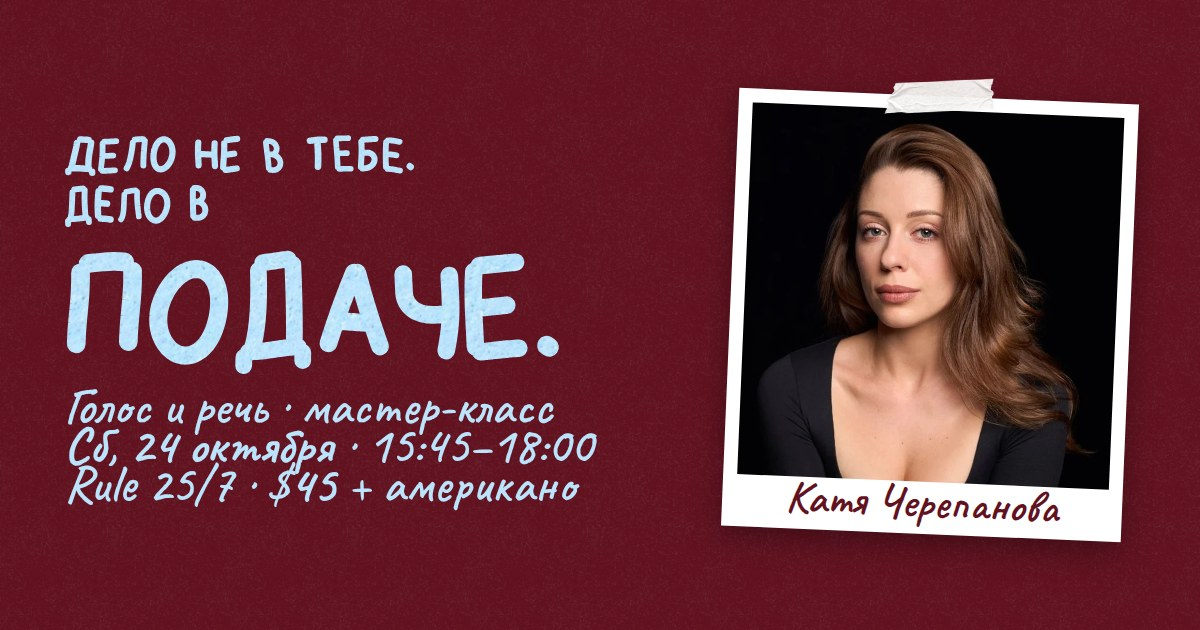
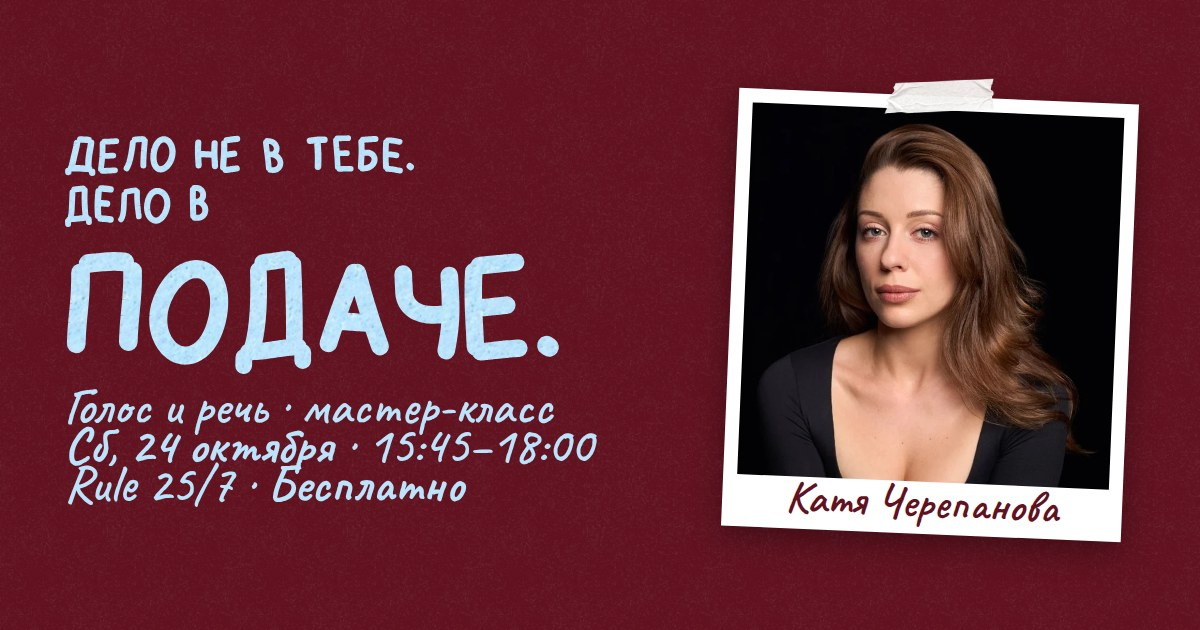
Link preview image: free
Claude-Session: https://claude.ai/code/session_01AuZrKRcPMDDAc4ATzSm9jK

Changed region(s): [[0.2158, 0.7238, 0.4933, 0.8143]]

diff --git a/index.html b/index.html
@@ -52,11 +52,11 @@
 <meta property="og:url" content="https://freeflow.nyc/">
 <meta property="og:title" content="Голос и речь · мастер-класс на русском">
 <meta property="og:description" content="Сб, 24 октября, 15:45–18:00 · Rule 25/7, Manhattan · Бесплатно. Ведёт актриса Катя Черепанова.">
-<meta property="og:image" content="https://freeflow.nyc/img/og.jpg">
+<meta property="og:image" content="https://freeflow.nyc/img/og.jpg?v=2">
 <meta property="og:image:width" content="1200">
 <meta property="og:image:height" content="630">
 <meta name="twitter:card" content="summary_large_image">
-<script type="application/ld+json">{"@context": "https://schema.org", "@type": "Event", "name": "Голос и речь: мастер-класс на русском", "startDate": "2026-10-24T15:45:00-04:00", "endDate": "2026-10-24T18:00:00-04:00", "eventAttendanceMode": "https://schema.org/OfflineEventAttendanceMode", "eventStatus": "https://schema.org/EventScheduled", "inLanguage": "ru", "location": {"@type": "Place", "name": "Rule 25/7", "address": {"@type": "PostalAddress", "streetAddress": "54 Eldridge St", "addressLocality": "New York", "addressRegion": "NY", "postalCode": "10002", "addressCountry": "US"}}, "image": ["https://freeflow.nyc/img/og.jpg"], "description": "Два часа с актрисой театра и кино Катей Черепановой: голос, харизма, самопрезентация. На русском, без опыта.", "isAccessibleForFree": true, "offers": {"@type": "Offer", "price": "0", "priceCurrency": "USD", "url": "https://partiful.com/e/yQGMDy3r7GFtRmhYNzRN", "availability": "https://schema.org/InStock"}, "performer": {"@type": "Person", "name": "Катя Черепанова"}, "organizer": {"@type": "Organization", "name": "freeflow.nyc", "url": "https://freeflow.nyc"}}</script>
+<script type="application/ld+json">{"@context": "https://schema.org", "@type": "Event", "name": "Голос и речь: мастер-класс на русском", "startDate": "2026-10-24T15:45:00-04:00", "endDate": "2026-10-24T18:00:00-04:00", "eventAttendanceMode": "https://schema.org/OfflineEventAttendanceMode", "eventStatus": "https://schema.org/EventScheduled", "inLanguage": "ru", "location": {"@type": "Place", "name": "Rule 25/7", "address": {"@type": "PostalAddress", "streetAddress": "54 Eldridge St", "addressLocality": "New York", "addressRegion": "NY", "postalCode": "10002", "addressCountry": "US"}}, "image": ["https://freeflow.nyc/img/og.jpg?v=2"], "description": "Два часа с актрисой театра и кино Катей Черепановой: голос, харизма, самопрезентация. На русском, без опыта.", "isAccessibleForFree": true, "offers": {"@type": "Offer", "price": "0", "priceCurrency": "USD", "url": "https://partiful.com/e/yQGMDy3r7GFtRmhYNzRN", "availability": "https://schema.org/InStock"}, "performer": {"@type": "Person", "name": "Катя Черепанова"}, "organizer": {"@type": "Organization", "name": "freeflow.nyc", "url": "https://freeflow.nyc"}}</script>
 <link rel="preconnect" href="https://fonts.googleapis.com">
 <link rel="preconnect" href="https://fonts.gstatic.com" crossorigin>
 <link href="https://fonts.googleapis.com/css2?family=Caveat:wght@400;500;600;700&display=swap" rel="stylesheet">
